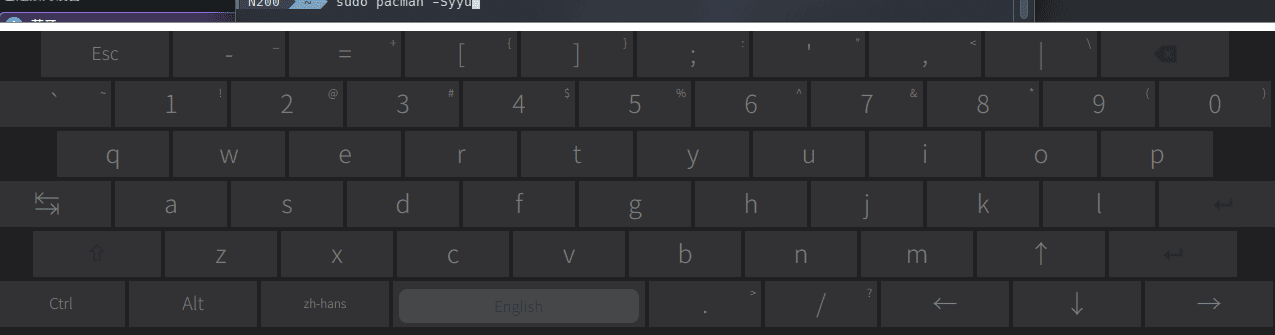
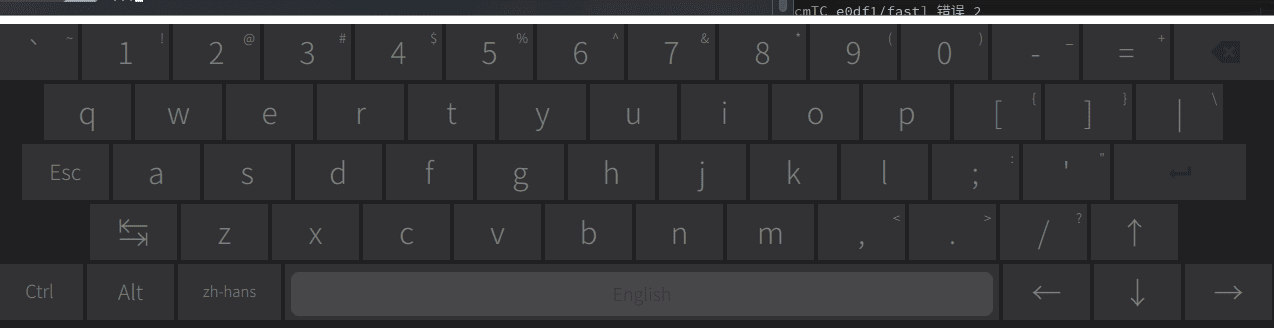
config README

diff --git a/README.md b/README.md
@@ -2,7 +2,7 @@
 
 modify support Tab Ctrl Meta Alt Chinese
 
-**英文键盘**
+**英文键盘: 上滑输出右上角字符**
 
 ![](doc/en.png)
 
